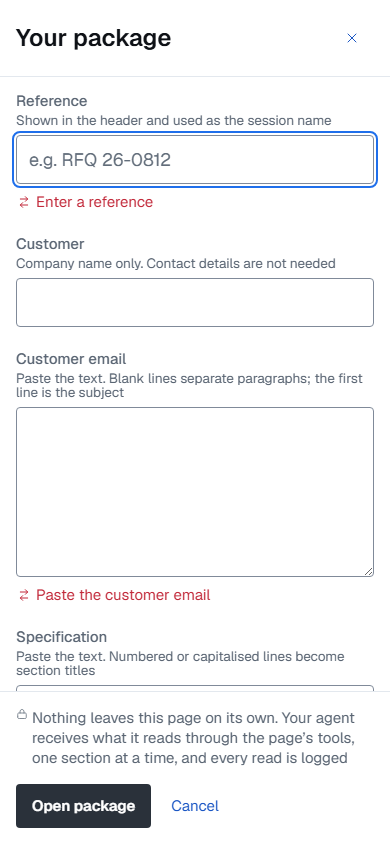
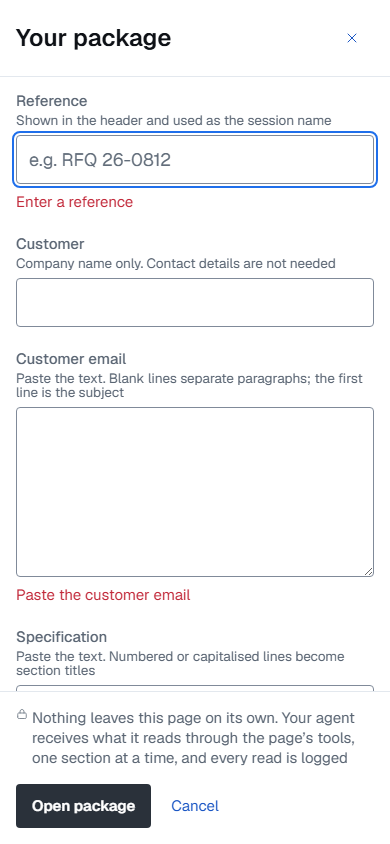
P5 fix: a validation message is text
Each error in the dialog carried the conflict glyph in front of it, which said
a third time what the colour and the field's own invalid state already say. The
message is now the words alone, in the conflict colour, tied to its field by
aria-describedby, with the first invalid field still taking focus. The task
file and the DESIGN.md dialog entry say so.

Changed region(s): [[0.0308, 0.6777, 0.5538, 0.7085], [0.0308, 0.2156, 0.4, 0.2464]]

diff --git a/src/components/OpenPackageDialog.test.tsx b/src/components/OpenPackageDialog.test.tsx
@@ -131,12 +131,15 @@ describe('what the dialog refuses to open', () => {
       .toBeInTheDocument();
   });
 
-  test('an error is tied to its field, in the conflict colour, with the conflict icon', async () => {
+  test('an error is tied to its field, in the conflict colour, and is text alone', async () => {
     const { container, user } = setup();
     await user.click(screen.getByRole('button', { name: 'Open package' }));
     const error = container.querySelector('.dialog__error');
 
-    expect(error?.querySelector('svg')).toBeTruthy();
+    // The message names the fix in words; the field it belongs to carries the
+    // state, so the line needs no glyph to repeat it.
+    expect(error).toHaveTextContent('Enter a reference');
+    expect(error?.querySelector('svg')).toBeNull();
     expect(screen.getByLabelText('Reference'))
       .toHaveAttribute('aria-describedby', expect.stringContaining(error!.id));
     expect(screen.getByLabelText('Reference')).toHaveAttribute('aria-invalid', 'true');

diff --git a/src/components/OpenPackageDialog.tsx b/src/components/OpenPackageDialog.tsx
@@ -1,6 +1,6 @@
 import { useEffect, useId, useRef, useState, type FormEvent } from 'react';
 import { ACCEPTED_IMAGE_TYPES, prepareDrawing as prepare_, type DrawingErrorCode } from '../data/prepare-drawing';
-import { CrossIcon, LockIcon, OpposingArrowsIcon } from '../icons';
+import { CrossIcon, LockIcon } from '../icons';
 import { Button } from './Button';
 
 /**
@@ -130,11 +130,11 @@ export function OpenPackageDialog({
     onOpenPackage({ reference: reference.trim(), customer: customer.trim(), email, spec, drawing });
   };
 
+  // Text alone: the message says what to do, the field beside it carries the
+  // state through its colour and `aria-invalid`, and a glyph would only repeat
+  // that a third time.
   const error = (name: FieldName) => errors[name] === undefined ? null : (
-    <p className="dialog__error" id={errorId(name)}>
-      <OpposingArrowsIcon />
-      {errors[name]}
-    </p>
+    <p className="dialog__error" id={errorId(name)}>{errors[name]}</p>
   );
 
   return (

diff --git a/src/styles/components.css b/src/styles/components.css
@@ -1803,16 +1803,17 @@
   text-overflow: ellipsis;
 }
 
-.dialog__privacy,
-.dialog__error {
+.dialog__privacy {
   display: flex;
   align-items: start;
   gap: var(--space-1);
   margin: 0;
 }
 
+/* A validation message is text: the colour and the field's own invalid state
+   carry it, and no glyph repeats them. */
 .dialog__error {
-  align-items: center;
+  margin: 0;
   color: var(--state-conflict);
 }
 

diff --git a/DESIGN.md b/DESIGN.md
@@ -142,7 +142,7 @@ The shared primitives, one row each. A task adds a modifier to a row that is her
 | Disclosure | rendered by `FieldList` (the verified group) and `ChangeLogDrawer` (the collapsed bar and the sheet) | a text button carrying the chevron icon, with `aria-expanded` and `aria-controls` | collapsed, expanded | the text button's heights |
 | Inline editor | `InlineEditor` | `.inline-editor` with `__context`, `__label`, `__controls`, `__field`, `__input`, `__units`, `__error`, `__hint`, `__keys` | open on a proposal, on an empty field, on a unit-bearing field with no unit, and in validation | the input and the unit control both `--control-input`; below 1024px `--control-large` plus the group's two hairlines |
 | Sheet | rendered by `SourcePane` (the narrow source) and `ChangeLogDrawer` (the narrow log) | `.source-pane--sheet`, `.change-log__sheet` | closed, open (modal, body scroll locked, focus returned on close) | full height below 1024px; the log sheet 40vh above it |
-| Dialog | `OpenPackageDialog` and `ConfirmDialog` | `.dialog`, `.dialog--confirm`, with `__form`, `__header`, `__title`, `__close`, `__body`, `__footer`, `__field`, `__label`, `__hint`, `__input`, `__textarea`, `__file`, `__file-name`, `__privacy`, `__message`, `__error`, `__actions` | closed, open, per-field validation | `min(720px, 100% - 2 * --page-margin)` wide and at most 85vh, `--confirm` `min(480px, …)`; a full-height sheet below 1024px; its one primary `--control-large` |
+| Dialog | `OpenPackageDialog` and `ConfirmDialog` | `.dialog`, `.dialog--confirm`, with `__form`, `__header`, `__title`, `__close`, `__body`, `__footer`, `__field`, `__label`, `__hint`, `__input`, `__textarea`, `__file`, `__file-name`, `__privacy`, `__message`, `__error`, `__actions` | closed, open, per-field validation (the message is text in `--state-conflict`, no icon) | `min(720px, 100% - 2 * --page-margin)` wide and at most 85vh, `--confirm` `min(480px, …)`; a full-height sheet below 1024px; its one primary `--control-large` |
 
 **Dialog anatomy.** Every dialog is three parts, and both of the components above build them: a **header** carrying the title and a close icon button at the right end (the cross glyph, accessible name "Close", doing what `Cancel` does; compact height at the two-column widths and `--control-large` below the breakpoint); a **body** holding the content, which is the only part that scrolls (`overflow-y: auto` on the body — never on the dialog, the form or the page); and a **footer** carrying the actions, with the privacy line above them in the package dialog, in view at every scroll position. A hairline separates each end from the body. On the full-height sheet below 1024px the three parts are the same and the footer sits at the bottom of the viewport, its block-end padding clearing the device's safe area. Padding: the body takes the pane-gutter step on every side, the header and the footer the paragraph step in block and the pane-gutter step inline; below the breakpoint all three take the paragraph step. Field spacing is the dialog-field role in § Spacing, layout, hit targets.
 

diff --git a/tasks/P5-own-package.md b/tasks/P5-own-package.md
@@ -64,7 +64,7 @@ A native `<dialog>` (modal; `Esc` closes; focus trapped by the element; focus re
 6. A line in `--ink-secondary` with the lock icon: "Nothing leaves this page on its own. Your agent receives what it reads through the page’s tools, one section at a time, and every read is logged" — the honest version of T2/T3 for user content. It must not claim that the data stays in the browser: what the agent reads reaches the agent's provider.
 7. Actions, in the footer under the privacy line: `Open package` (the dialog's primary, large — a dialog is a screen, per the § Interaction states line this task adds) · `Cancel` (text) · `Use the sample package` (text, only while a user package is open). The header's close does what `Cancel` does.
 
-Validation on `Open package`: reference empty → "Enter a reference"; email empty → "Paste the customer email"; spec empty and no drawing → "Add the specification or a drawing" (under the Specification field); email or spec over 40,000 characters → "The {document} is longer than 40,000 characters; paste the relevant part"; file of another type (HEIC, PDF, SVG, …) → "Choose a PNG, JPEG or WebP. A screenshot of the PDF page works"; file over 10 MB → "Choose an image under 10 MB"; a file that does not decode → "This file could not be opened as an image". Errors per field in `--state-conflict` with the conflict icon and `aria-describedby`; the first invalid field takes focus. The page never decides whether the image is a drawing: the person sees it in the Drawing tab, and the agent's `report_missing` covers content that is not an RFQ.
+Validation on `Open package`: reference empty → "Enter a reference"; email empty → "Paste the customer email"; spec empty and no drawing → "Add the specification or a drawing" (under the Specification field); email or spec over 40,000 characters → "The {document} is longer than 40,000 characters; paste the relevant part"; file of another type (HEIC, PDF, SVG, …) → "Choose a PNG, JPEG or WebP. A screenshot of the PDF page works"; file over 10 MB → "Choose an image under 10 MB"; a file that does not decode → "This file could not be opened as an image". Errors per field in `--state-conflict`, text alone with no icon (amended 2026-09-02: the colour and the field's own `aria-invalid` carry the state, and a glyph repeats it a third time), tied to the field with `aria-describedby`; the first invalid field takes focus. The page never decides whether the image is a drawing: the person sees it in the Drawing tab, and the agent's `report_missing` covers content that is not an RFQ.
 
 ### Change-log header by state (owner's ruling, 2026-09-02)
 
